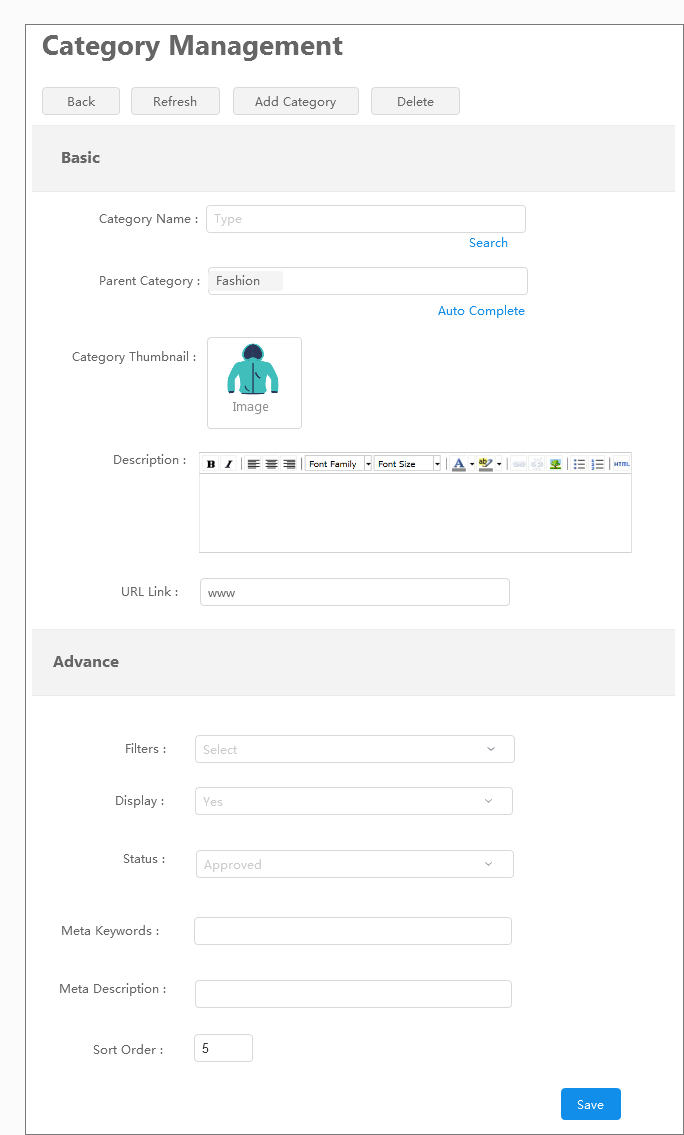
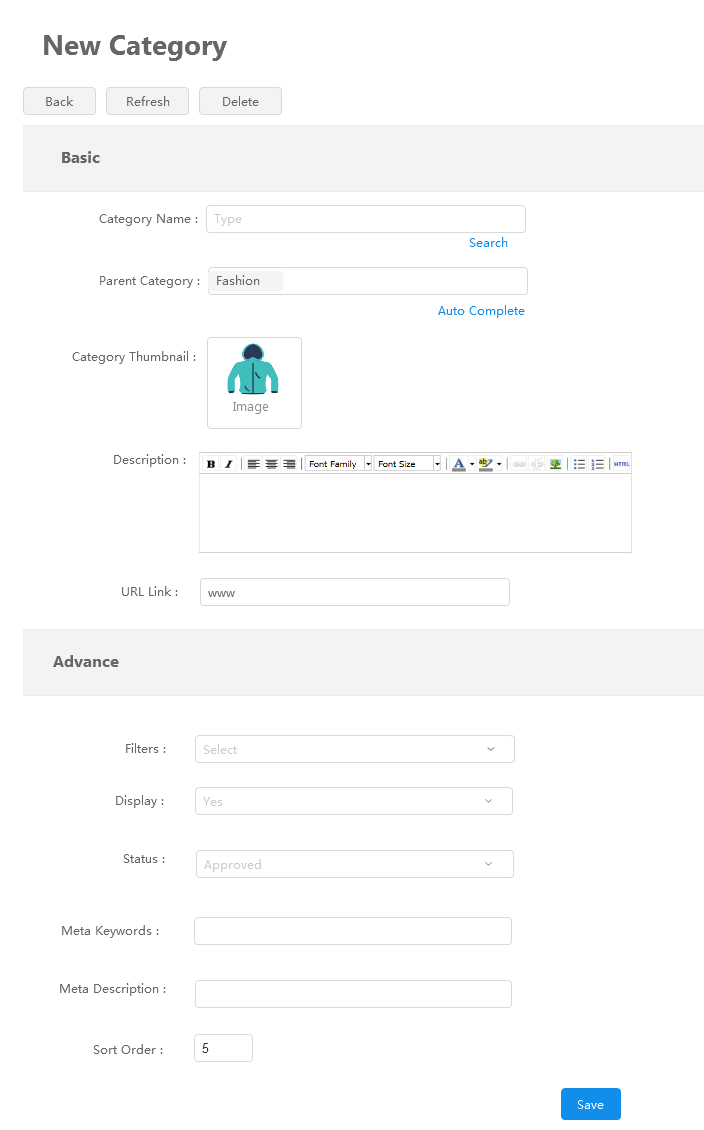
Updates admin-panel-hui-yuan-kan-ban/category-managment/category-ui.md
Auto commit by GitBook Editor

diff --git a/admin-panel-hui-yuan-kan-ban/category-managment/category-ui.md b/admin-panel-hui-yuan-kan-ban/category-managment/category-ui.md
@@ -1,8 +1,17 @@
-**UI of Category Listing + Tree List **![](/assets/category.png)**UI Category Form**
+**UI of Category Listing + Tree List**
+
+* Search category name and status
+* update status \(Approve\) 
+* Delete category 
+* Add new category 
+
+** **![](/assets/category.png)
+
+**UI Category Form**
+
+* Insert category info 
+* upload image 
+* update save form  
 
 ![](/assets/categoryform.png)
-
-
-
-
 
